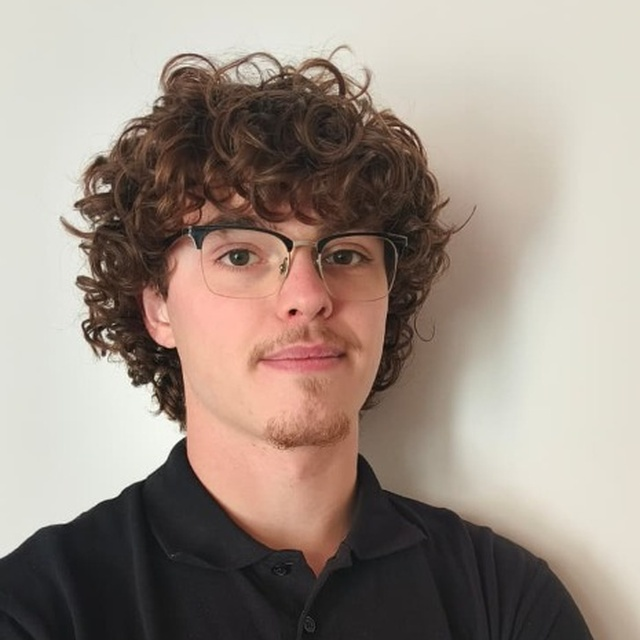
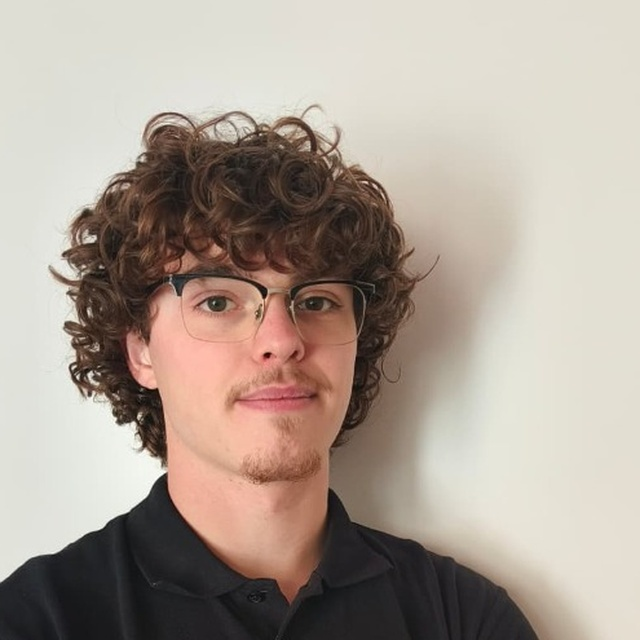
feat(ui): update academic bio, add web dev focus, tech section pattern and privacy blur

diff --git a/src/data/profile.ts b/src/data/profile.ts
@@ -13,14 +13,14 @@ export const profileData: ProfileData = {
   shortBio:
     "Passionate about embedded systems engineering, aerospace robotics, quantum computing, and game physics simulation.",
   fullBio: [
-    "I am an undergraduate Computer Engineering student at Politecnico di Torino, studying in a curriculum taught entirely in English, and an inducted member of the IEEE-Eta Kappa Nu (IEEE-HKN) Honor Society.",
-    "I actively contribute to university engineering student teams: Team Astra (IT Division, developing embedded C/C++ firmware for an autonomous spherical lunar rover) and Team QubiTo (Politecnico di Torino's quantum computing student team).",
+    "I am an undergraduate Computer Engineering student at Politecnico di Torino, studying in a curriculum taught entirely in English, and a member of the Mu Nu Chapter of IEEE-Eta Kappa Nu (IEEE-HKN) Honor Society.",
+    "I actively contribute to university engineering student teams: Team Astra (IT Division, developing embedded C firmware for an autonomous spherical lunar rover) and Team QubiTo (Politecnico di Torino's quantum computing student team).",
     "I led the team that won 1st Place at HackTurin with the EGG project (Edge-AI Traffic Mesh Network) and continuously engineer complex technical systems spanning embedded firmware, Agentic AI architectures, Unity 3D physics engines, and modern full-stack software platforms.",
   ],
   location: "Turin, Italy",
   email: "gioelerora05@gmail.com",
   studentEmail: "gioele.rora@studenti.polito.it",
-  phone: "+39 371 411 2144",
+  // Phone number omitted for privacy and web-scraping prevention
   github: "https://github.com/GioeleRora",
   linkedin: "https://www.linkedin.com/in/gioelerora",
   socials: [

diff --git a/src/app/cv/page.tsx b/src/app/cv/page.tsx
@@ -6,6 +6,7 @@ import { Button } from "@/components/ui/Button";
 import { cvData } from "@/data/cv";
 import { profileData } from "@/data/profile";
 import { CvPrintButton } from "@/components/cv/CvPrintButton";
+import { LinkedinIcon } from "@/components/ui/Icons";
 
 export const metadata: Metadata = {
   title: "Curriculum Vitae | Gioele Rora",
@@ -62,6 +63,18 @@ export default function CvPage() {
             {profileData.email}
           </a>
         </div>
+        <div className="flex items-center gap-2">
+          <LinkedinIcon className="w-4 h-4 text-cyan-400 shrink-0" />
+          <a href={profileData.linkedin} target="_blank" rel="noopener noreferrer" className="hover:underline truncate">
+            linkedin.com/in/gioelerora
+          </a>
+        </div>
+        <div className="flex items-center gap-2">
+          <Globe className="w-4 h-4 text-purple-400 shrink-0" />
+          <a href={profileData.github} target="_blank" rel="noopener noreferrer" className="hover:underline truncate">
+            github.com/GioeleRora
+          </a>
+        </div>
         {profileData.phone && (
           <div className="flex items-center gap-2">
             <Phone className="w-4 h-4 text-amber-400 shrink-0" />
@@ -70,12 +83,6 @@ export default function CvPage() {
             </a>
           </div>
         )}
-        <div className="flex items-center gap-2">
-          <Globe className="w-4 h-4 text-purple-400 shrink-0" />
-          <a href={profileData.github} target="_blank" rel="noopener noreferrer" className="hover:underline">
-            github.com/GioeleRora
-          </a>
-        </div>
       </div>
 
       {/* Professional Summary */}

diff --git a/src/app/page.tsx b/src/app/page.tsx
@@ -8,10 +8,25 @@ export default function Home() {
   return (
     <div className="flex flex-col min-h-screen">
       <HeroSection />
-      <BentoAbout />
-      <TechStackGrid />
-      <FeaturedProjects />
-      <ExperienceTimeline />
+
+      {/* Below-Hero Sections with tech mesh pattern & ambient lighting */}
+      <div className="relative overflow-hidden tech-section-pattern">
+        {/* Ambient lighting glows across sections */}
+        <div className="absolute top-[8%] -left-32 w-[550px] h-[450px] bg-cyan-500/[0.04] rounded-full blur-[140px] pointer-events-none" />
+        <div className="absolute top-[28%] -right-32 w-[600px] h-[500px] bg-emerald-500/[0.035] rounded-full blur-[150px] pointer-events-none" />
+        <div className="absolute top-[52%] -left-24 w-[550px] h-[450px] bg-purple-500/[0.04] rounded-full blur-[150px] pointer-events-none" />
+        <div className="absolute top-[78%] -right-24 w-[500px] h-[400px] bg-cyan-500/[0.035] rounded-full blur-[140px] pointer-events-none" />
+
+        {/* Subtle top transition gradient */}
+        <div className="absolute top-0 inset-x-0 h-20 bg-gradient-to-b from-[#08090d] to-transparent pointer-events-none" />
+
+        <div className="relative z-10">
+          <BentoAbout />
+          <TechStackGrid />
+          <FeaturedProjects />
+          <ExperienceTimeline />
+        </div>
+      </div>
     </div>
   );
 }

diff --git a/src/components/home/BentoAbout.tsx b/src/components/home/BentoAbout.tsx
@@ -69,6 +69,10 @@ export function BentoAbout() {
               </li>
               <li className="flex items-center gap-2">
                 <span className="h-1.5 w-1.5 rounded-full bg-emerald-400" />
+                <span>Full-Stack & Modern Web Development</span>
+              </li>
+              <li className="flex items-center gap-2">
+                <span className="h-1.5 w-1.5 rounded-full bg-emerald-400" />
                 <span>Agentic AI Workflows & Systems Architecture</span>
               </li>
               <li className="flex items-center gap-2">

diff --git a/src/app/globals.css b/src/app/globals.css
@@ -32,6 +32,15 @@ body {
   background-size: 24px 24px;
 }
 
+/* Subtle technological circuit/mesh pattern for content sections */
+.tech-section-pattern {
+  background-image: 
+    radial-gradient(rgba(255, 255, 255, 0.06) 1px, transparent 1px),
+    linear-gradient(to right, rgba(255, 255, 255, 0.015) 1px, transparent 1px),
+    linear-gradient(to bottom, rgba(255, 255, 255, 0.015) 1px, transparent 1px);
+  background-size: 24px 24px, 96px 96px, 96px 96px;
+}
+
 /* Bento card glassmorphism style */
 .bento-card {
   background-color: rgba(14, 18, 26, 0.7);

diff --git a/PROJECT.md b/PROJECT.md
@@ -112,5 +112,7 @@ Sezioni che hanno bisogno di respiro e non appesantiscono la Home:
 - [x] **Fase 6:** Traduzione integrale in lingua inglese (`en`), razionalizzazione dell'UX/navigazione e rimozione di percorsi ridondanti.
 - [x] **Fase 7:** Deploy in produzione su Vercel (`https://gioggio.vercel.app`) collegato al repository GitHub (`GioeleRora/gioggio`).
 - [x] **Fase 8:** Integrazione ritratto fotografico ufficiale in Hero (colonna sinistra, riquadro rotondo con tech ring e glow neon) e sincronizzazione completa del CV ufficiale PDF con aggiornamento meriti accademici e progetti.
+- [x] **Fase 9:** Privacy Audit & Anonymization: anonimizzazione e sfocatura con maschera calibrata dei nomi reali dei partecipanti nei badge di `route2025-home.png`, oscuramento del numero telefonico privato dal bundle pubblico e rimodulazione contatti professionali su LinkedIn, GitHub e Email istituzionale.
+- [x] **Fase 10:** Perfezionamento Bio accademica / team universitari, inserimento del Web Development in Active Technical Focus ed estensione del pattern a griglia tecnologica e luci ambientali a tutte le sezioni della Home.
 
 
